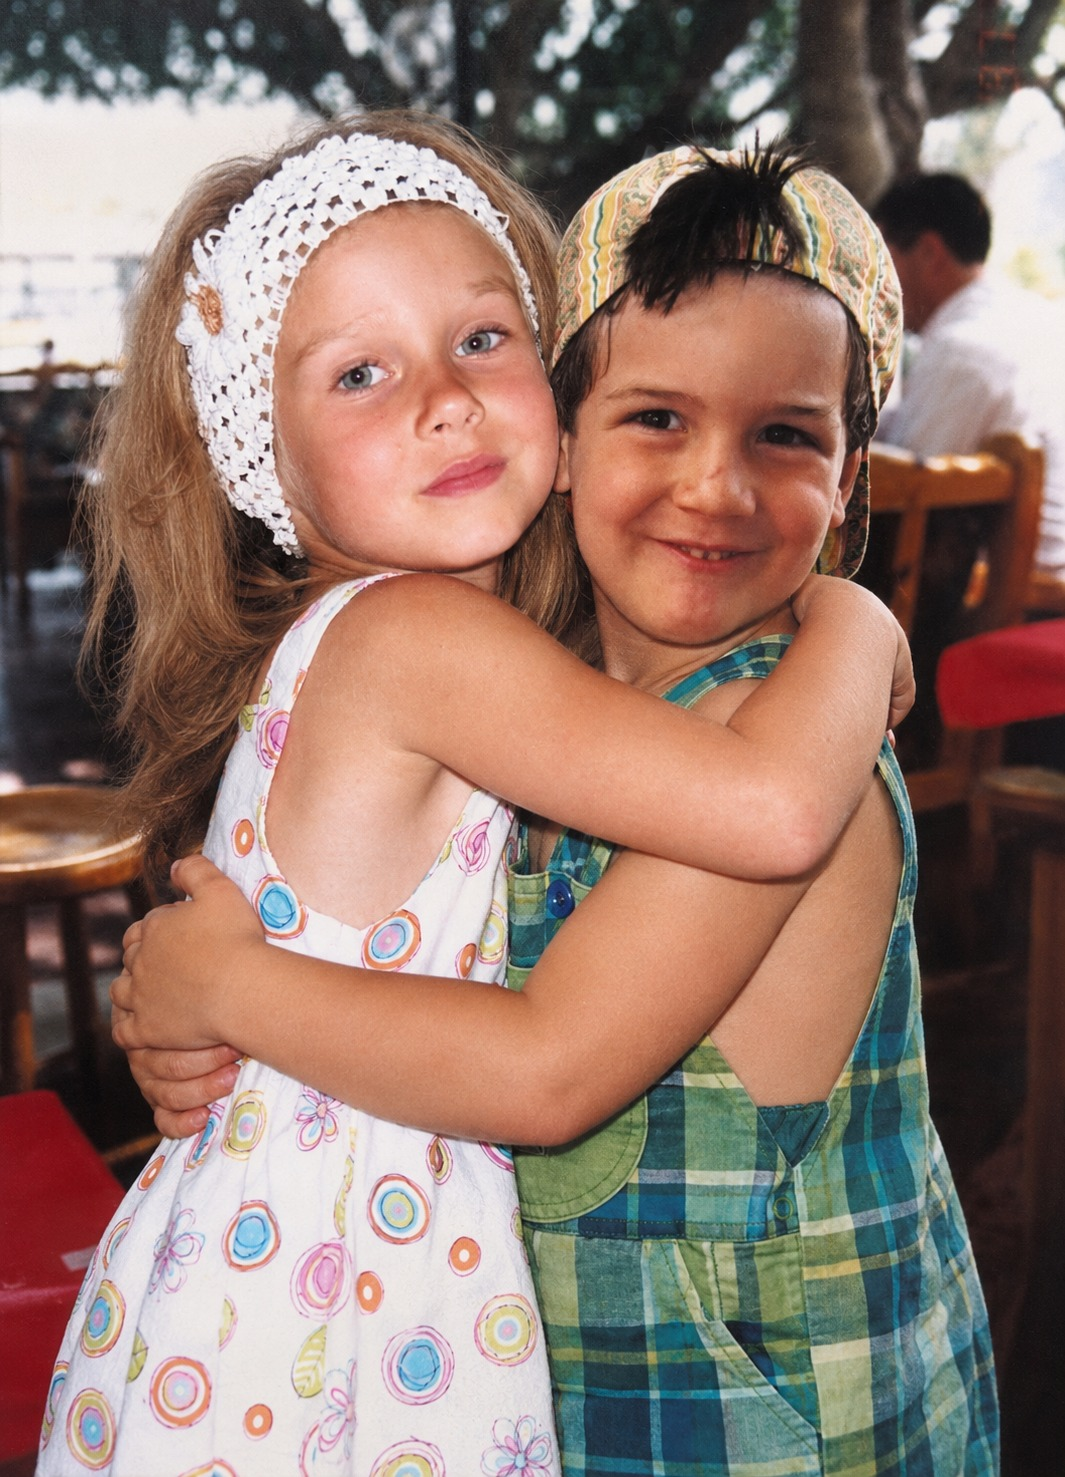
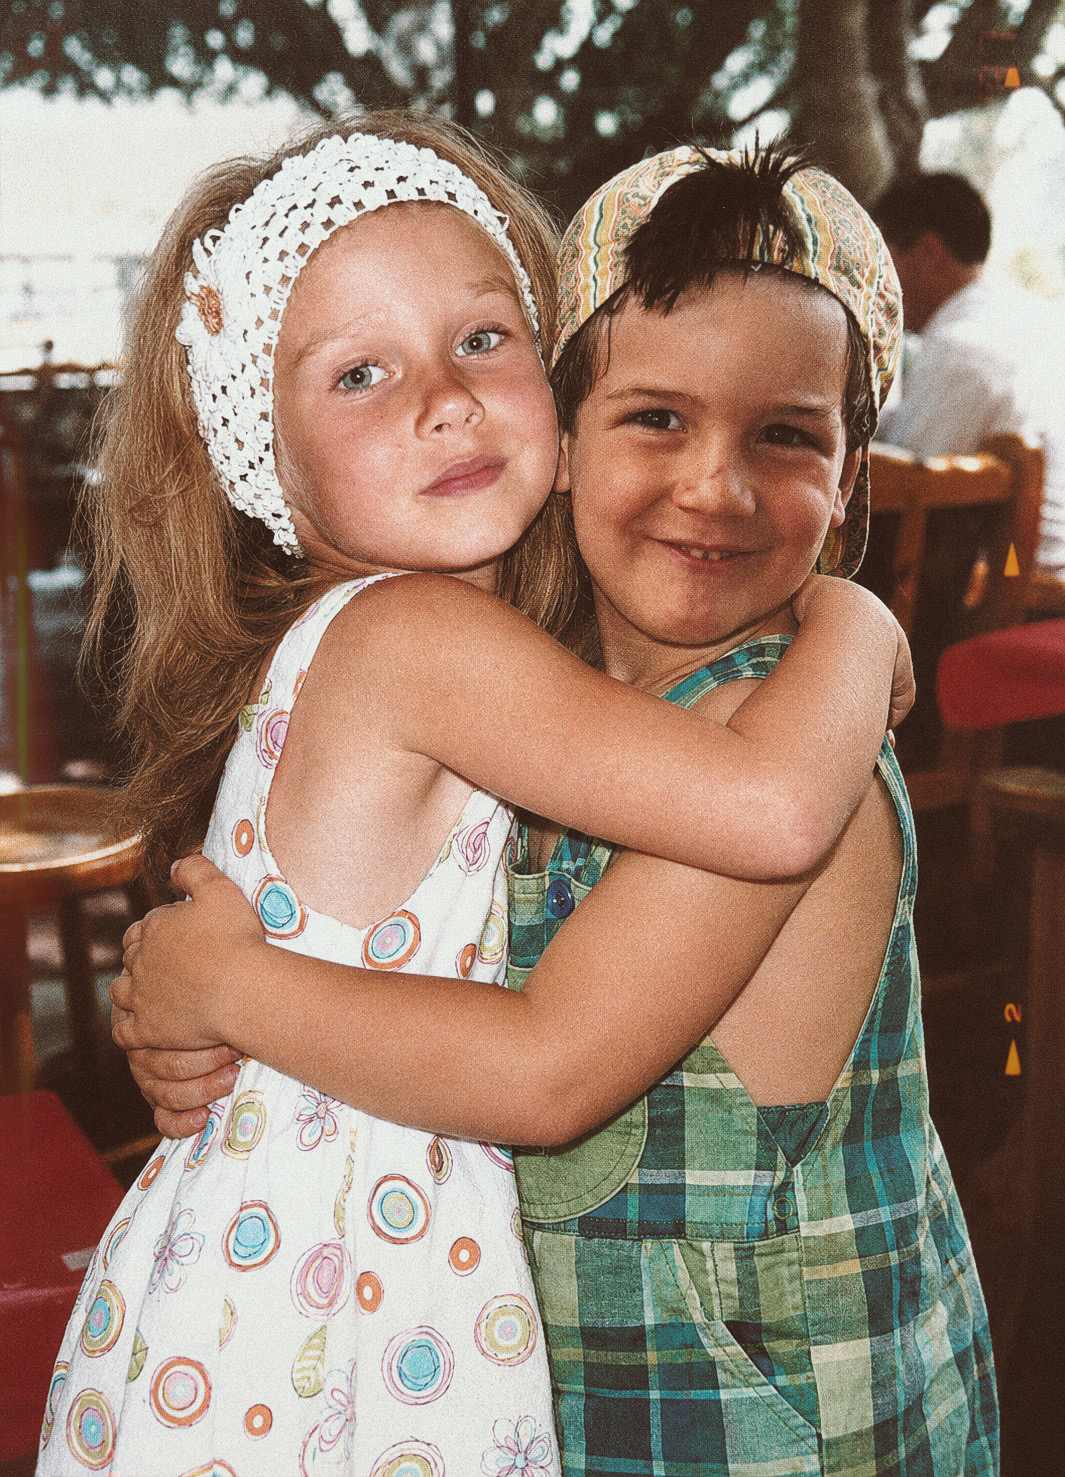
new hero picture

diff --git a/css/styles.css b/css/styles.css
@@ -168,7 +168,7 @@ button:hover {
 .timeline-time {
   display: block;
   font-weight: 600;
-  color: var(--color-primary);
+  color: var(--color-accent);
 }
 
 .timeline-title {
@@ -211,6 +211,35 @@ button:hover {
 }
 
 .hero-wrap .photo {
+  margin: 0;
+}
+
+.hero-heart {
+  max-width: 780px;
+}
+
+.hero-wrap + .hero-wrap::before {
+  content: '';
+  display: block;
+  width: min(400px, 60%);
+  margin: 2rem auto;
+  border-top: 1px solid var(--color-accent);
+}
+
+.hero-wrap .heart-photo {
+  max-width: 780px;
+  margin: 0 auto;
+  border: none;
+  border-radius: 0;
+}
+
+.hero-title-overlay {
+  position: absolute;
+  top: 50%;
+  left: 50%;
+  transform: translate(-50%, -50%);
+  width: 60%;
+  max-width: none;
   margin: 0;
 }
 

diff --git a/index.html b/index.html
@@ -30,10 +30,9 @@
 
   <main>
     <section id="home">
-      <img class="title-image" src="images/Lisa&amp;Franci.png" alt="Lisa & Franci">
-
-      <div class="hero-wrap">
-        <img class="photo" src="images/US.jpeg" alt="Lisa & Franci">
+      <div class="hero-wrap hero-heart">
+        <img class="photo heart-photo" src="images/US.png" alt="Lisa & Franci">
+        <img class="title-image hero-title-overlay" src="images/Lisa&amp;Franci.png" alt="Lisa & Franci">
       </div>
 
       <div class="hero-wrap">
